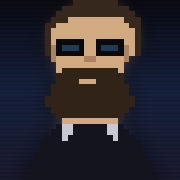
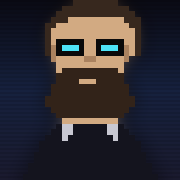
Sync george-boole: cyan sunglasses, and a title that drifts
The portrait's lenses were a dark slate and the app icon's are cyan, which
made the start screen and the home screen look like two different men. The
gap is closed in the game repo by bringing the portrait up to the icon
rather than the icon down to the portrait: the slate was measured in the
icon first and the sunglasses merge into the beard at 60px, which is the
one size an app icon is guaranteed to be seen at. The portrait is never
smaller than 96px, so it loses nothing, and the title beside it is already
cyan.

The title screen also stops moving as one block: the portrait and the
title text ran the same 4s float from the same start, and the glint was
also 4s so it fired on the same beat every time. The portrait now runs at
a negative delay and the glint at 7s.

AGENTS.md is modified in this tree by other work and is not touched here.

Changed region(s): [[0.5556, 0.25, 0.6667, 0.3056], [0.3333, 0.25, 0.4444, 0.3056]]

diff --git a/arcade/george-boole/css/modal-title.css b/arcade/george-boole/css/modal-title.css
@@ -320,6 +320,15 @@ body .title-screen .title-subtitle {
     display: inline-block;
     margin-bottom: 24px;
     animation: titleFloat 4s ease-in-out infinite;
+    /* Out of step with .title-main, which runs the same 4s float. They are
+       siblings rather than nested, so the transforms never compounded, but
+       they started together and so moved as one rigid block sliding up and
+       down -- which is the opposite of the drift the animation is named for.
+       A NEGATIVE delay starts it mid-cycle instead of holding still for 1.3s
+       first, so there is no pause and no jump on load. 1.3s is not a third of
+       the period by accident: it puts the portrait near the top of its travel
+       when the title is near the middle. */
+    animation-delay: -1.3s;
 }
 
 .title-portrait {
@@ -349,13 +358,22 @@ body .title-screen .title-subtitle {
     );
     opacity: 0;
     pointer-events: none;
-    animation: glint 4s ease-in-out infinite;
+    /* 7s against the portrait's 4s float, deliberately coprime-ish: at 4s the
+       glint was phase-locked to the bob and fired at the same point of every
+       one, which is what made a random-looking flash feel like a metronome.
+       These two now only realign every 28s.
+
+       The keyframe percentages moved with the duration to keep the flash the
+       length it was. It was visible from 85% to 95% of 4s, about 0.4s; at 7s
+       the same percentages would have stretched it to 0.7s, which is a slow
+       wipe rather than a glint. 91% to 97% of 7s is 0.42s. */
+    animation: glint 7s ease-in-out infinite;
 }
 
 @keyframes glint {
-    0%, 85%, 100% { opacity: 0; transform: translateX(-30%); }
-    90% { opacity: 1; transform: translateX(30%); }
-    95% { opacity: 0; transform: translateX(50%); }
+    0%, 91%, 100% { opacity: 0; transform: translateX(-30%); }
+    94% { opacity: 1; transform: translateX(30%); }
+    97% { opacity: 0; transform: translateX(50%); }
 }
 
 /* ---- FLOATING GATES ---- */

diff --git a/arcade/george-boole/index.html b/arcade/george-boole/index.html
@@ -66,7 +66,7 @@
     <link rel="stylesheet" href="css/themes.css?v=c634b661">
     <link rel="stylesheet" href="css/container.css?v=a30fdcef">
     <link rel="stylesheet" href="css/game.css?v=3eaa3eb3">
-    <link rel="stylesheet" href="css/modal-title.css?v=2ad178ce">
+    <link rel="stylesheet" href="css/modal-title.css?v=3341bb83">
     <link rel="stylesheet" href="css/modal-lore.css?v=5d85f992">
     <link rel="stylesheet" href="css/modal-difficulty.css?v=2cea08f0">
     <link rel="stylesheet" href="css/modal-scoreboard.css?v=0ae5f201">
